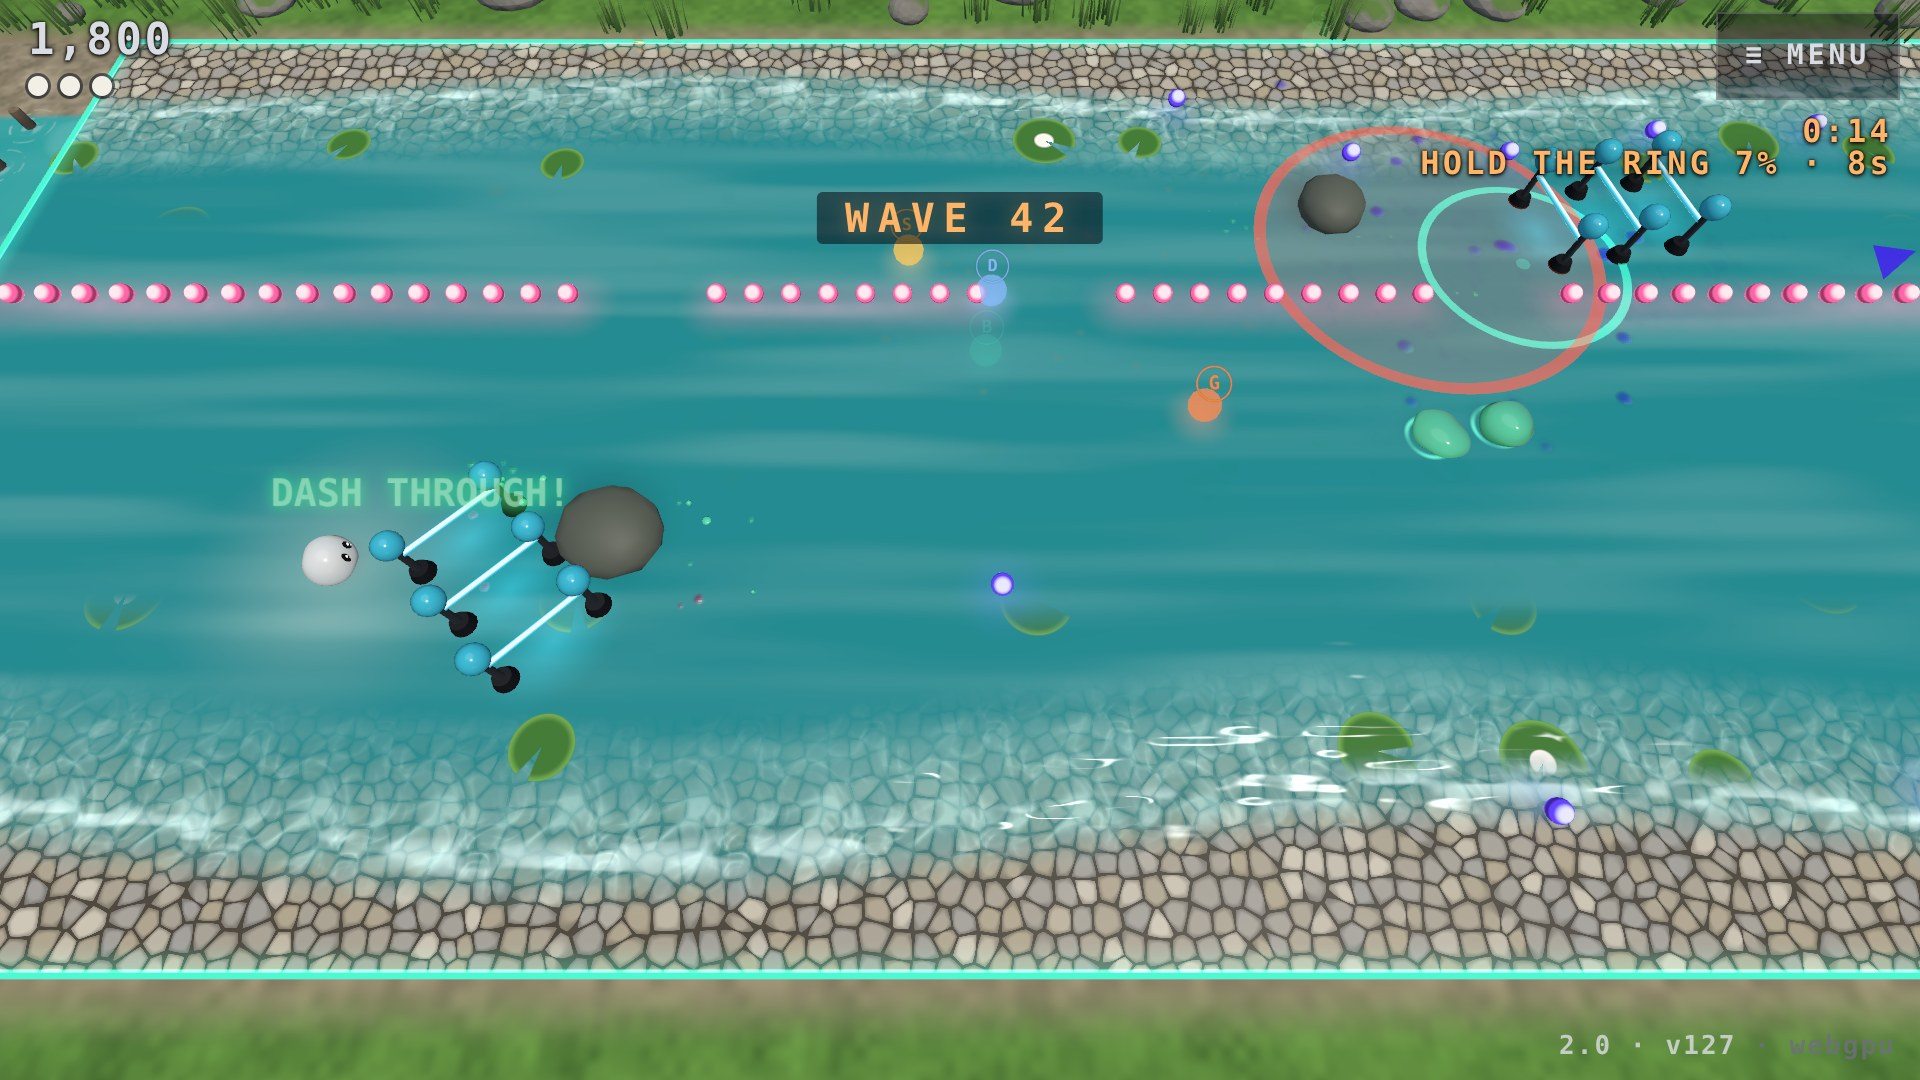
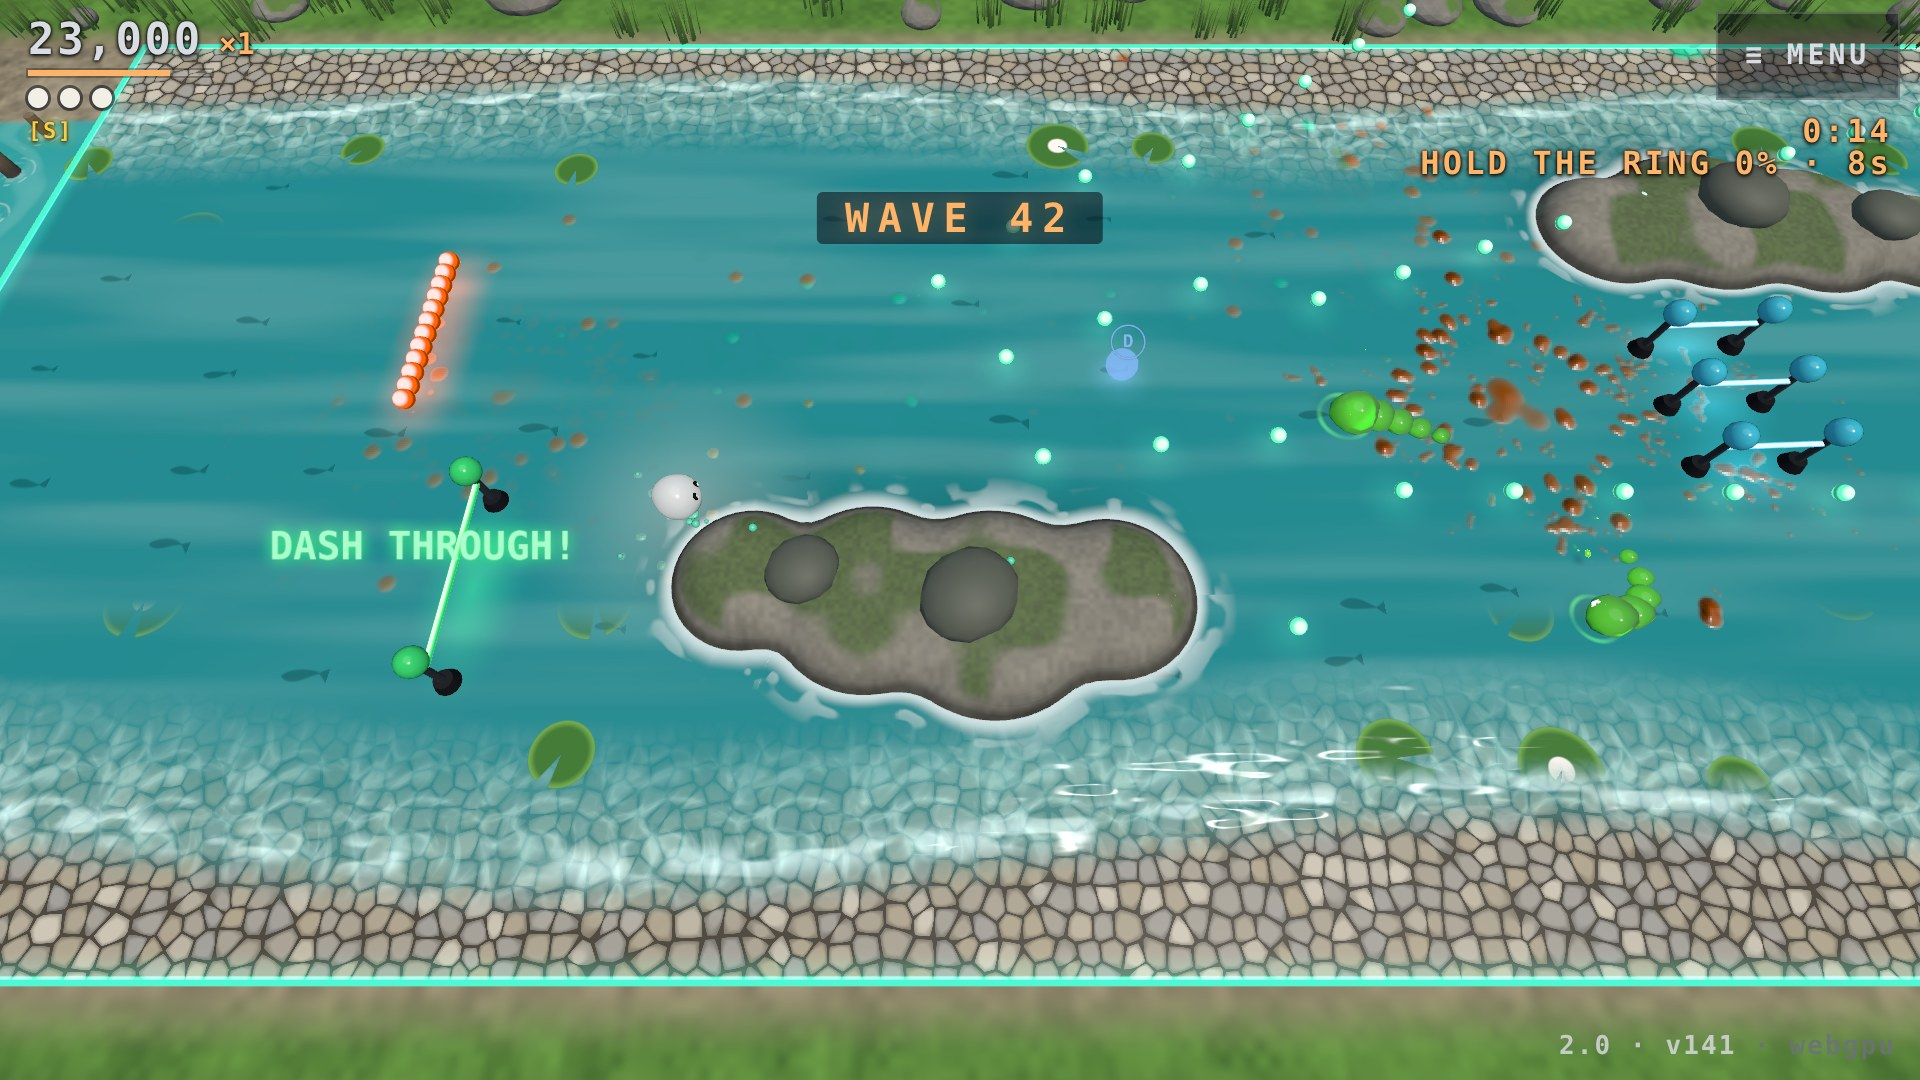
toko-drop-2.0: the itch page's screenshots re-shot from the v141 zip
The eleven pictures (nine arcade worlds, the campaign grid, a boss room) showed v127: before the driveway's
concept pass, the blockers, the broken ice and the floors of worlds 3 to 9. The clips are still v127's.

Claude-Session: https://claude.ai/code/session_01L6jYRh1dbxQDJ7Ym3GFUzu

diff --git a/toko-drop-2.0-src/itch/README.md b/toko-drop-2.0-src/itch/README.md
@@ -1,7 +1,7 @@
 # Toko Drop 2.0 — the itch upload, ready
 
-- `toko-drop-2-v127-itch.zip`: the HTML5 build. It boots in an itch-style frame, plays ARCADE and a campaign room, and copies a PLAY RECORD with a tap (`scripts/itch-check.mjs`).
-- `screenshots/`: the nine arcade worlds, the campaign grid and a boss room, 1920 × 1080, from the v127 zip itself (re-shot 2026-11-09).
+- `toko-drop-2-v141-itch.zip`: the HTML5 build. It boots in an itch-style frame, plays ARCADE and a campaign room, and copies a PLAY RECORD with a tap (`scripts/itch-check.mjs`).
+- `screenshots/`: the nine arcade worlds, the campaign grid and a boss room, 1920 × 1080, from the v141 zip itself (re-shot 2026-11-10: the driveway to its concept, the blockers, the broken ice, the floors of worlds 3 to 9).
 - `clips/`: GIFs of the five clips (`scripts/itch-clips.mjs`), re-cut at v127 without the camera's shake: the nine worlds, CURB KING, HARDCADE, a campaign room, and the 28-second progress trailer. The MP4s are rendered by the same script; itch takes a trailer as a YouTube or Vimeo link.
 - The cover is `../itch-cover/cover-core@2x.png` (the owner's pick).
 - The page text and the upload settings are `docs/ITCH.md` in the source bundle. Price and release status are the owner's.
